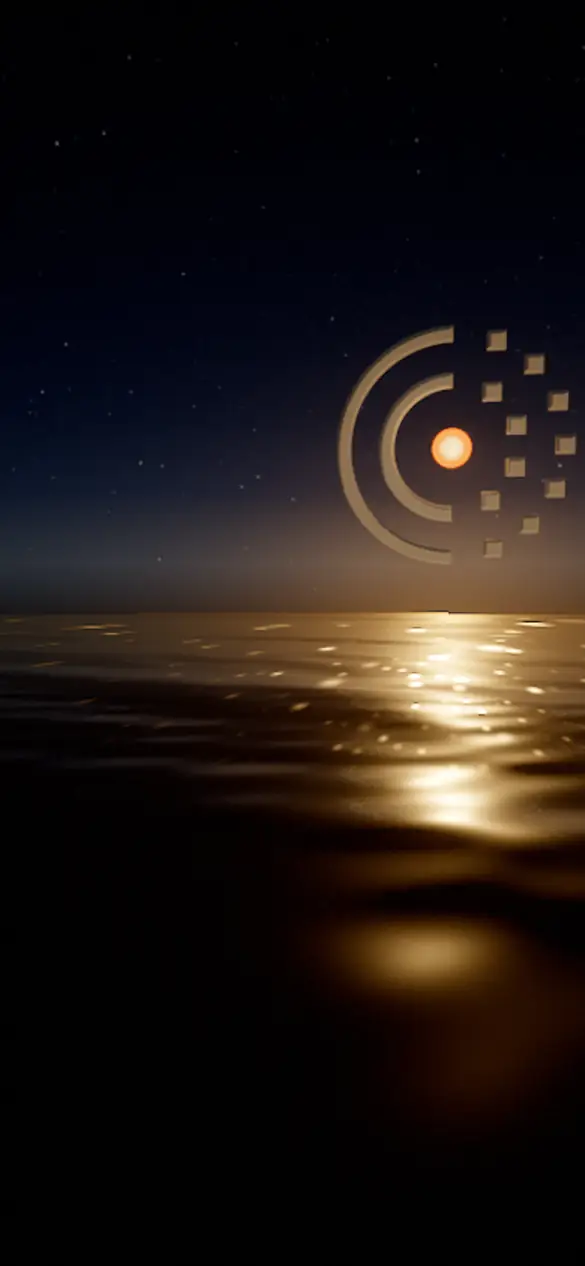
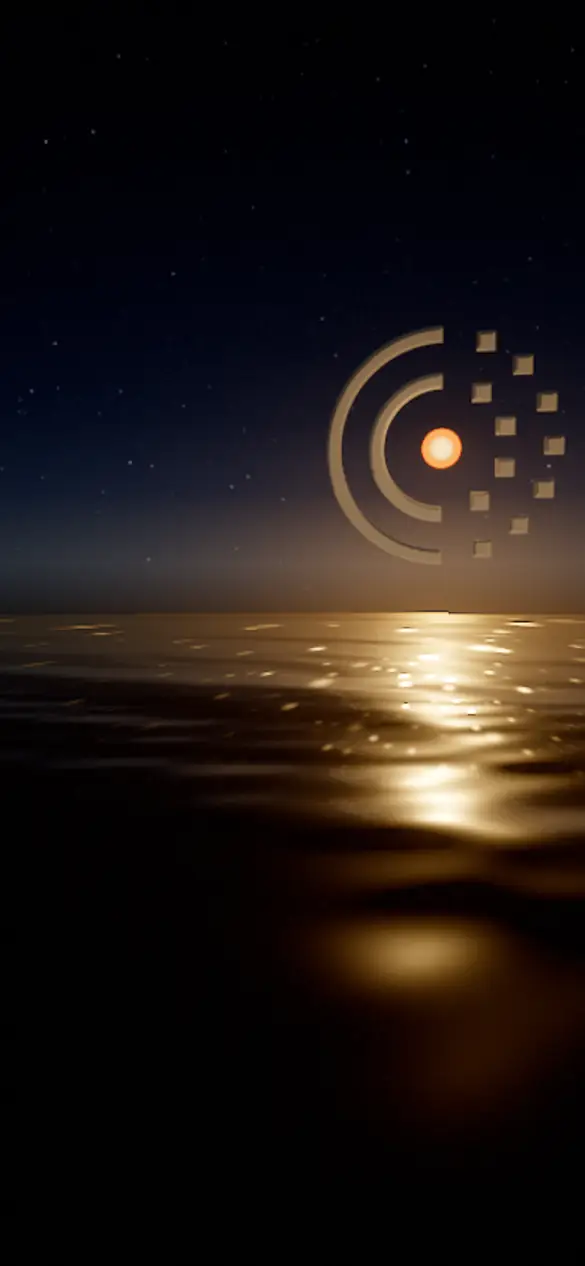
World: the mark >= 14 px inside small phones (phone hero yaw 169.7, hero and loop keys alike; 360-393 px checked through hero + together), no Chrome swipe-back on the home page (overscroll-behavior-x only), touch samples timed by event timestamps; phone still re-rendered
Claude-Session: https://claude.ai/code/session_01PrrUSgaxJQ8G1hgJsTo6NP

diff --git a/lib/world/journey.ts b/lib/world/journey.ts
@@ -103,8 +103,8 @@ export function keys(): Key[] {
   const FAR2 = { ...FAR, sunV: deg(280) }; // the same place, written one lap on, for the run home
   return [
     // hero: low over the molten sea at sunset, the mark floating over its reflection, its core the sun; stars above
-    { at: ['hero', 0], s: 0, h: 1.6, yaw: 162, pitch: -0.2, fov: 46, ...NEAR, ph: { fov: 62, pitch: -2.7, yaw: 169 } }, // mark: phone core right of the type, so the glitter column never crosses it
-    { at: ['hero', 1], s: 4, h: 1.8, yaw: 162, pitch: 0, fov: 46, ...NEAR, ph: { fov: 62, pitch: -2.4, yaw: 169 } },
+    { at: ['hero', 0], s: 0, h: 1.6, yaw: 162, pitch: -0.2, fov: 46, ...NEAR, ph: { fov: 62, pitch: -2.7, yaw: 169.7 } }, // mark: phone core right of the type, so the glitter column never crosses it
+    { at: ['hero', 1], s: 4, h: 1.8, yaw: 162, pitch: 0, fov: 46, ...NEAR, ph: { fov: 62, pitch: -2.4, yaw: 169.7 } },
     // stronger together: still on the sunset, a slow rise so the mark has the sky
     { at: ['together', 0], s: 8, h: 2.2, yaw: 180, pitch: -0.5, fov: 46, ...NEAR, ph: { fov: 62, pitch: -2 } },
     { at: ['together', 1], s: 30, h: 7, yaw: 178, pitch: 1, fov: 46, ...NEAR, ph: { fov: 62, pitch: 0 } },
@@ -141,7 +141,7 @@ export function keys(): Key[] {
     { at: ['dawn', 0], s: deg(235), h: 4600, yaw: 25, pitch: -38, fov: 46, ...FAR2, ph: { fov: 60 } },
     { at: ['loop', 0], dy: -0.6, s: LAP - 40, h: 8, yaw: 168, pitch: -1.5, fov: 46, ...FAR2, ph: { fov: 62, pitch: -3, yaw: 172 } },
     // loop: exactly the hero's first key, one lap on
-    { at: ['loop', 0], s: LAP, h: 1.6, yaw: 162, pitch: -0.2, fov: 46, ...NEAR, sunV: LAP - 170, ph: { fov: 62, pitch: -2.7, yaw: 169 } },
+    { at: ['loop', 0], s: LAP, h: 1.6, yaw: 162, pitch: -0.2, fov: 46, ...NEAR, sunV: LAP - 170, ph: { fov: 62, pitch: -2.7, yaw: 169.7 } },
   ];
 }
 

diff --git a/lib/world/loop.ts b/lib/world/loop.ts
@@ -186,7 +186,7 @@ function touch(L: LenisLike): () => void {
     axis = null;
     gliding = false; // a finger catches the glide, as on iOS
     v = 0;
-    samples = [{ t: now(), y: t.clientY }];
+    samples = [{ t: e.timeStamp || now(), y: t.clientY }];
   };
   const onMove = (e: TouchEvent) => {
     if (id == null) return;
@@ -203,7 +203,8 @@ function touch(L: LenisLike): () => void {
     const dy = lastY - t.clientY;
     lastY = t.clientY;
     if (dy) move(dy);
-    const tm = now();
+    // event time, not handler time: after a slow frame the handler runs late but the timestamp stays true
+    const tm = e.timeStamp || now();
     samples.push({ t: tm, y: t.clientY });
     while (samples.length > 2 && tm - samples[0].t > 100) samples.shift();
   };
@@ -211,7 +212,7 @@ function touch(L: LenisLike): () => void {
     if (id == null || [...e.touches].some((k) => k.identifier === id)) return;
     id = null;
     if (axis !== 'y') return;
-    const tm = now();
+    const tm = e.timeStamp || now();
     // release velocity: the last ~100 ms of the stroke (a finger that stopped before lifting does not glide)
     const a = samples[0],
       b = samples[samples.length - 1];

diff --git a/components/world/World.css b/components/world/World.css
@@ -39,6 +39,10 @@ html:has([data-world-root]) {
 html[data-world-on] .w-root::before {
   display: none;
 }
+/* a sideways finger drag makes waves, never Chrome's swipe-back (x only: iOS's own edge swipe stays) */
+html:has([data-world-root]) {
+  overscroll-behavior-x: none;
+}
 html:has([data-world-root]) body {
   background: transparent;
 }
